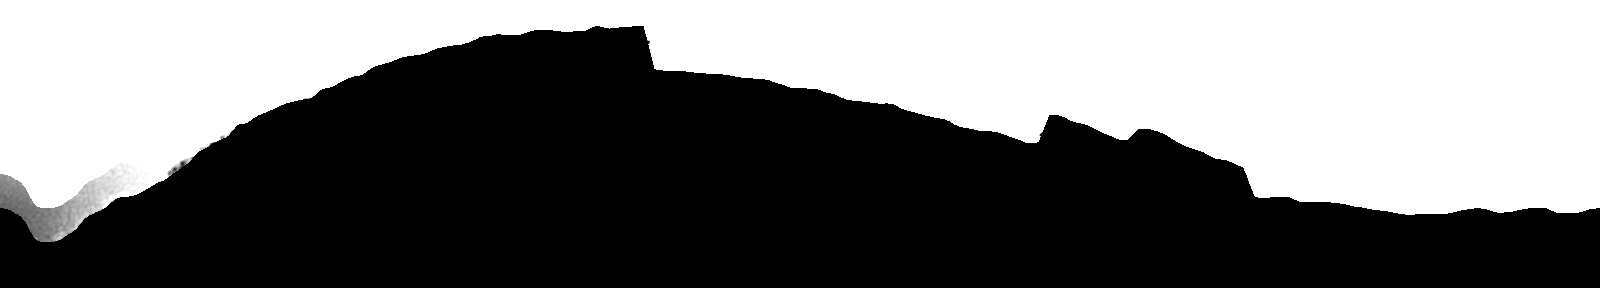
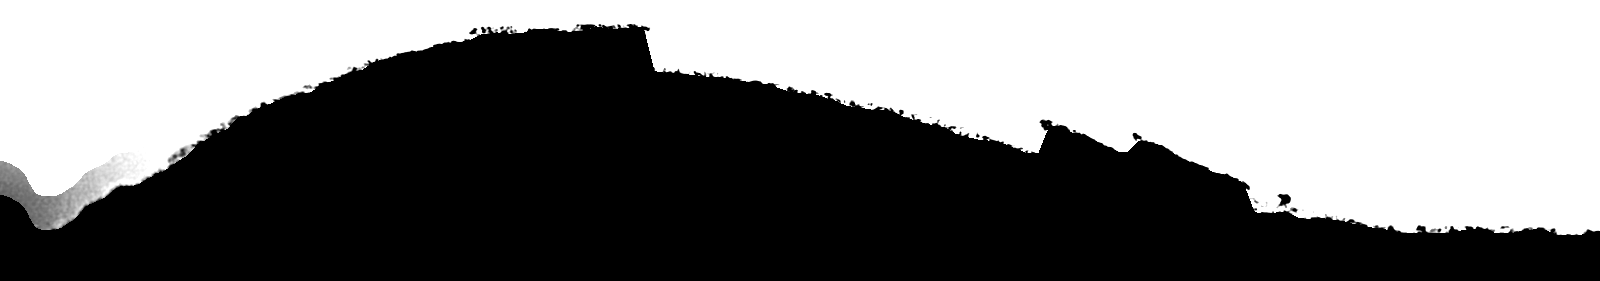
Tes formes traversent la page entières, une seule fois
La bande de séparation prend le format exact du bord photographié, mesuré
sur le masque et écrit dans src/lib/bords.ts. Ton coup de pinceau va donc
d'un bord à l'autre de la page, en une fois, et il se réduit avec elle
sans jamais se compresser.

Avant, la bande gardait une hauteur fixe : ta forme s'affichait à 45 % de
la largeur et se répétait deux fois. Et je redressais la fin de ta courbe
pour qu'elle retombe à sa hauteur de départ, ce qui n'a plus lieu d'être.

diff --git a/src/styles/mouvement.css b/src/styles/mouvement.css
@@ -12,17 +12,14 @@ main > section > div { position: relative; z-index: 2; }
   rgba(0,0,0,0) 0%, rgba(0,0,0,0.26) 16%, rgba(0,0,0,0.26) 84%, rgba(0,0,0,0) 100%); }
 
 /* ── Les séparations : un bord de pinceau, de la couleur de la section d'en face ──
-   La bande garde une hauteur fixe et le masque garde son format : le coup de
-   pinceau reste à sa taille, quelle que soit la largeur de la page. Sur un écran
-   étroit on en voit moins, au lieu de le compresser. Le masque est doublé en
-   miroir, donc sa répétition est sans couture. */
+   La bande prend le format du bord photographié : la forme traverse la page
+   une fois, entière, et se réduit avec elle sans jamais se compresser. */
 .brosse {
   position: absolute; left: 0; right: 0; z-index: 2;
-  height: 120px;
   background-color: currentColor;
   pointer-events: none;
-  -webkit-mask: var(--brosse-img) var(--brosse-x, 0) 0 / auto 100% repeat-x;
-  mask: var(--brosse-img) var(--brosse-x, 0) 0 / auto 100% repeat-x;
+  -webkit-mask: var(--brosse-img) 0 0 / 100% 100% no-repeat;
+  mask: var(--brosse-img) 0 0 / 100% 100% no-repeat;
 }
 /* Le masque a son bord de pinceau en haut et le plein en dessous.
    En pied de section on le pose tel quel ; en tête on le retourne. */
@@ -30,7 +27,6 @@ main > section > div { position: relative; z-index: 2; }
 .brosse--haut { top: -1px; transform: scaleY(-1); }
 .brosse--bas.brosse--retournee { transform: scaleX(-1); }
 .brosse--haut.brosse--retournee { transform: scaleY(-1) scaleX(-1); }
-@media (max-width: 760px) { .brosse { height: 88px; } }
 
 /* ── Le chemin : tes fragments d'encre, toute la hauteur de la section ── */
 .trace { position: absolute; top: 0; height: calc(100% + var(--debord, 0px));

diff --git a/src/lib/bords.ts b/src/lib/bords.ts
@@ -1,0 +1,8 @@
+// Le format de chaque bord de pinceau, mesuré sur le masque.
+// La bande de séparation s'y conforme : la forme n'est jamais déformée.
+export const BORDS: Record<number, { l: number; h: number }> = {
+  1: { l: 1600, h: 282 },
+  2: { l: 1600, h: 356 },
+  3: { l: 1600, h: 281 },
+  4: { l: 1600, h: 396 },
+};
